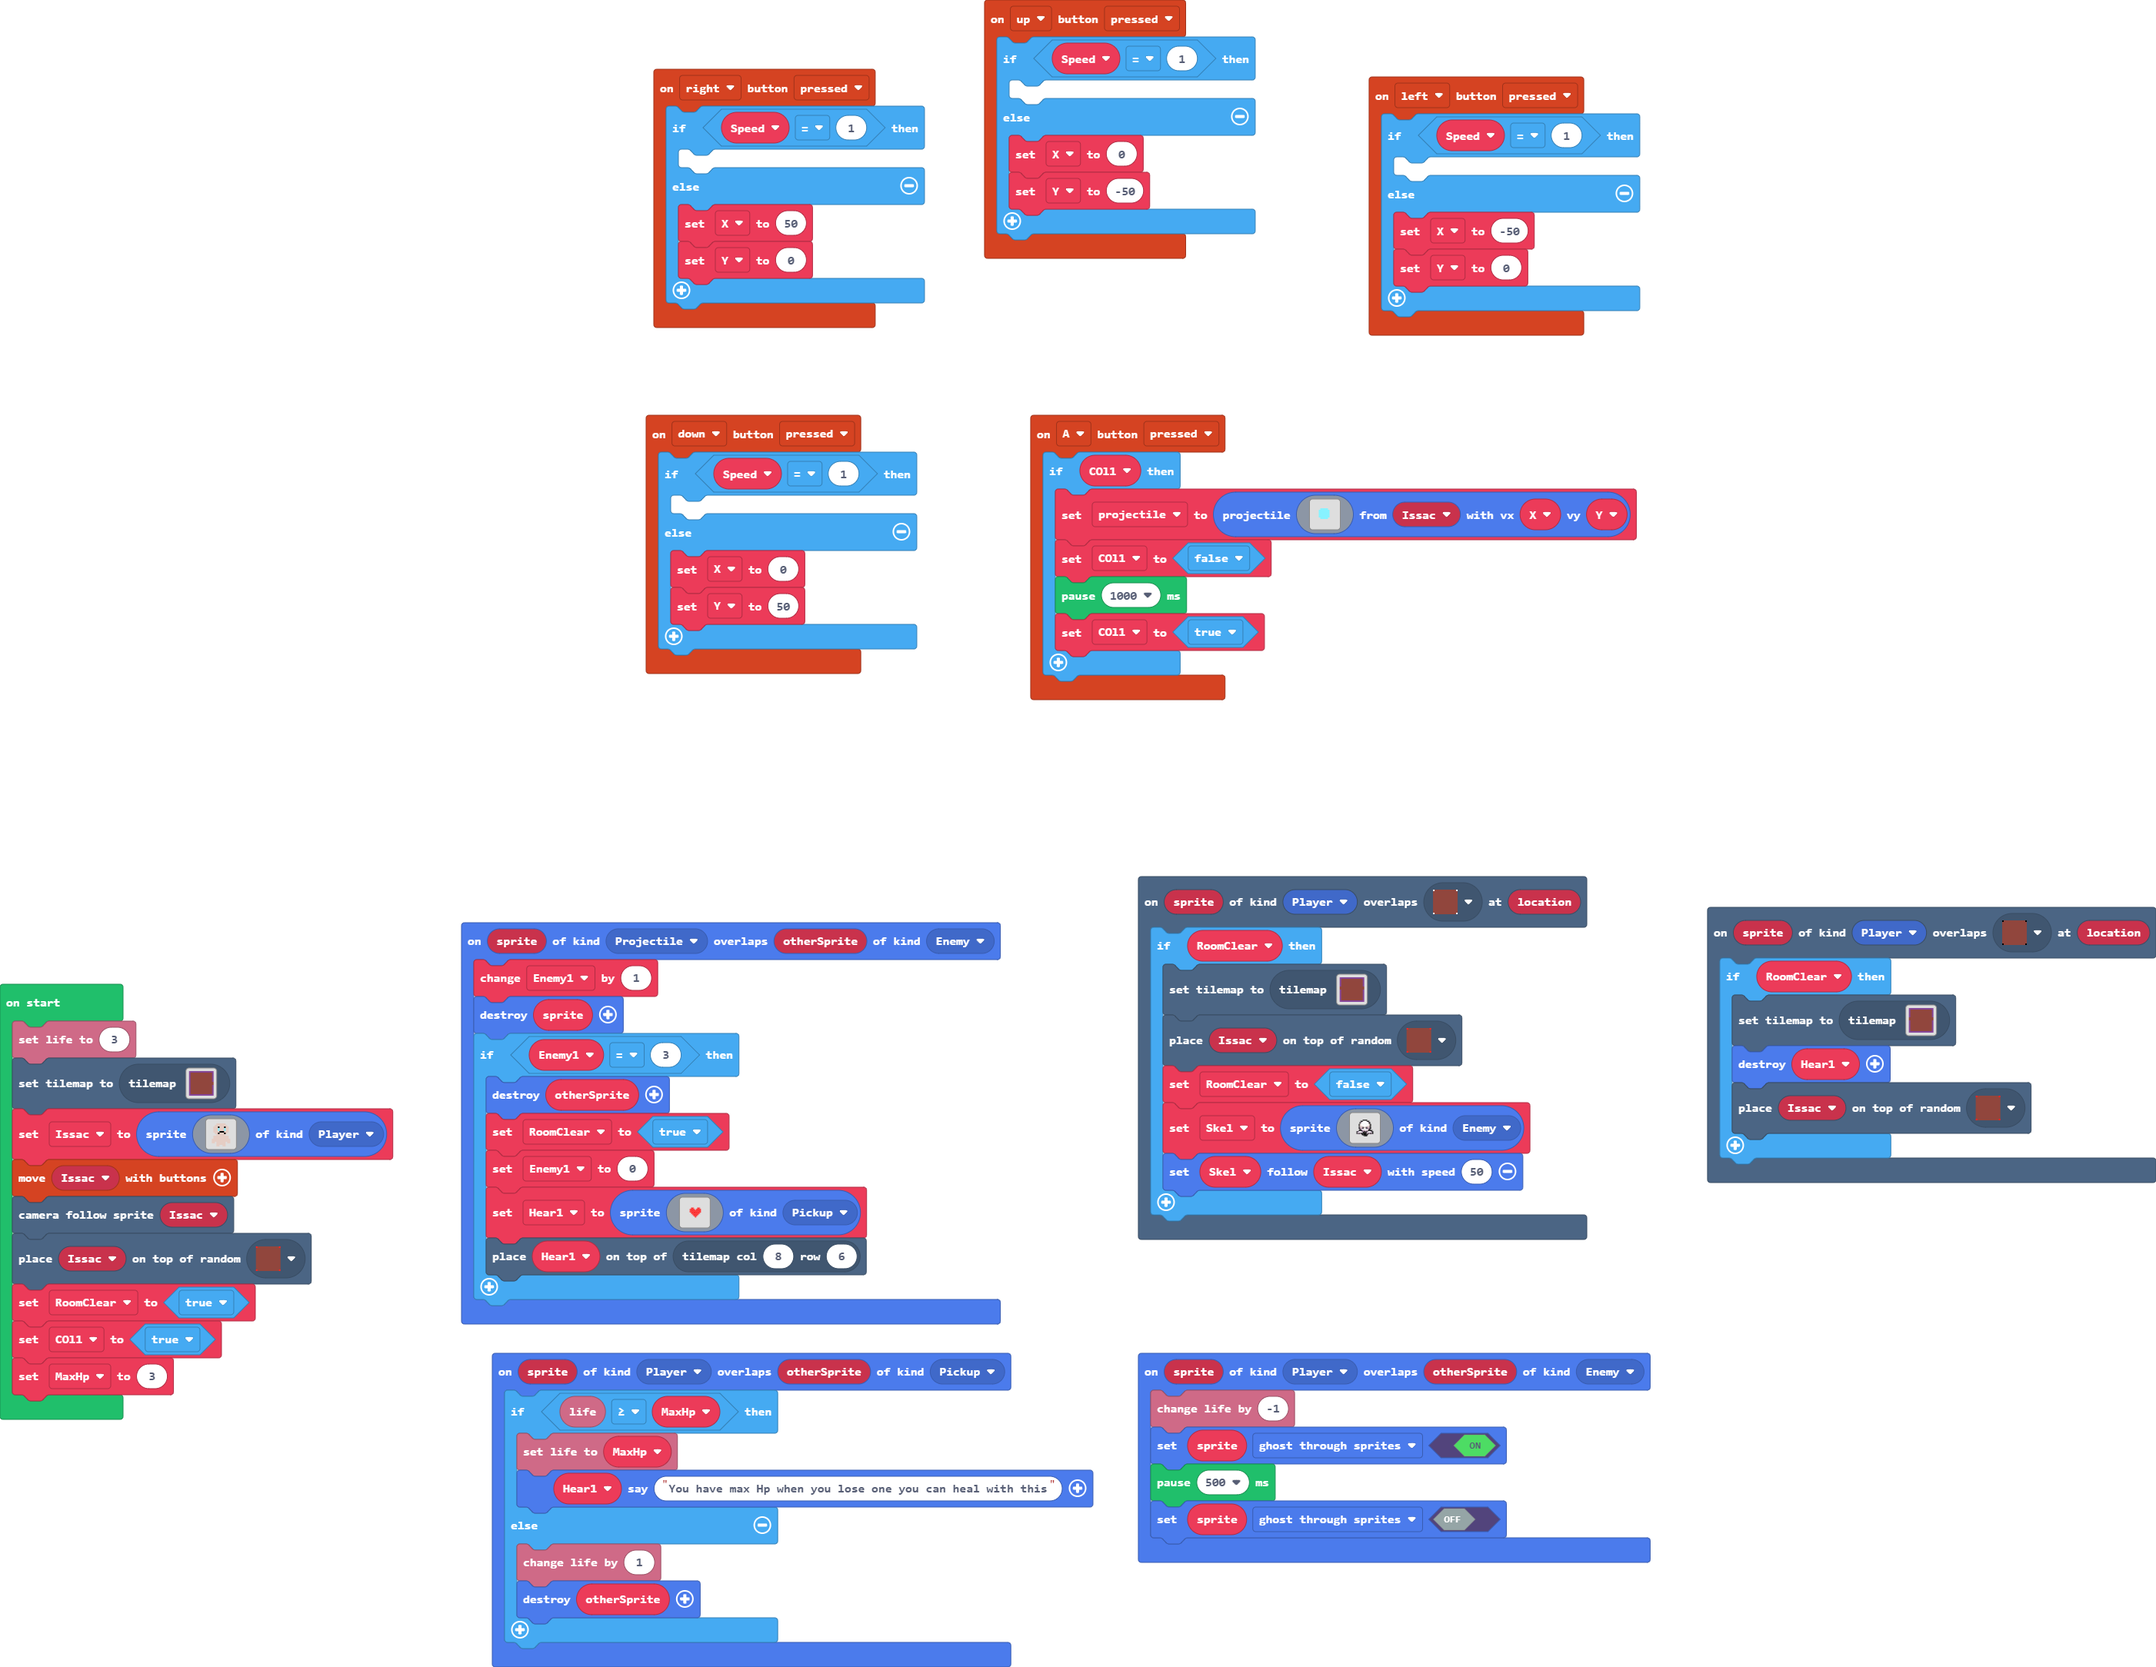
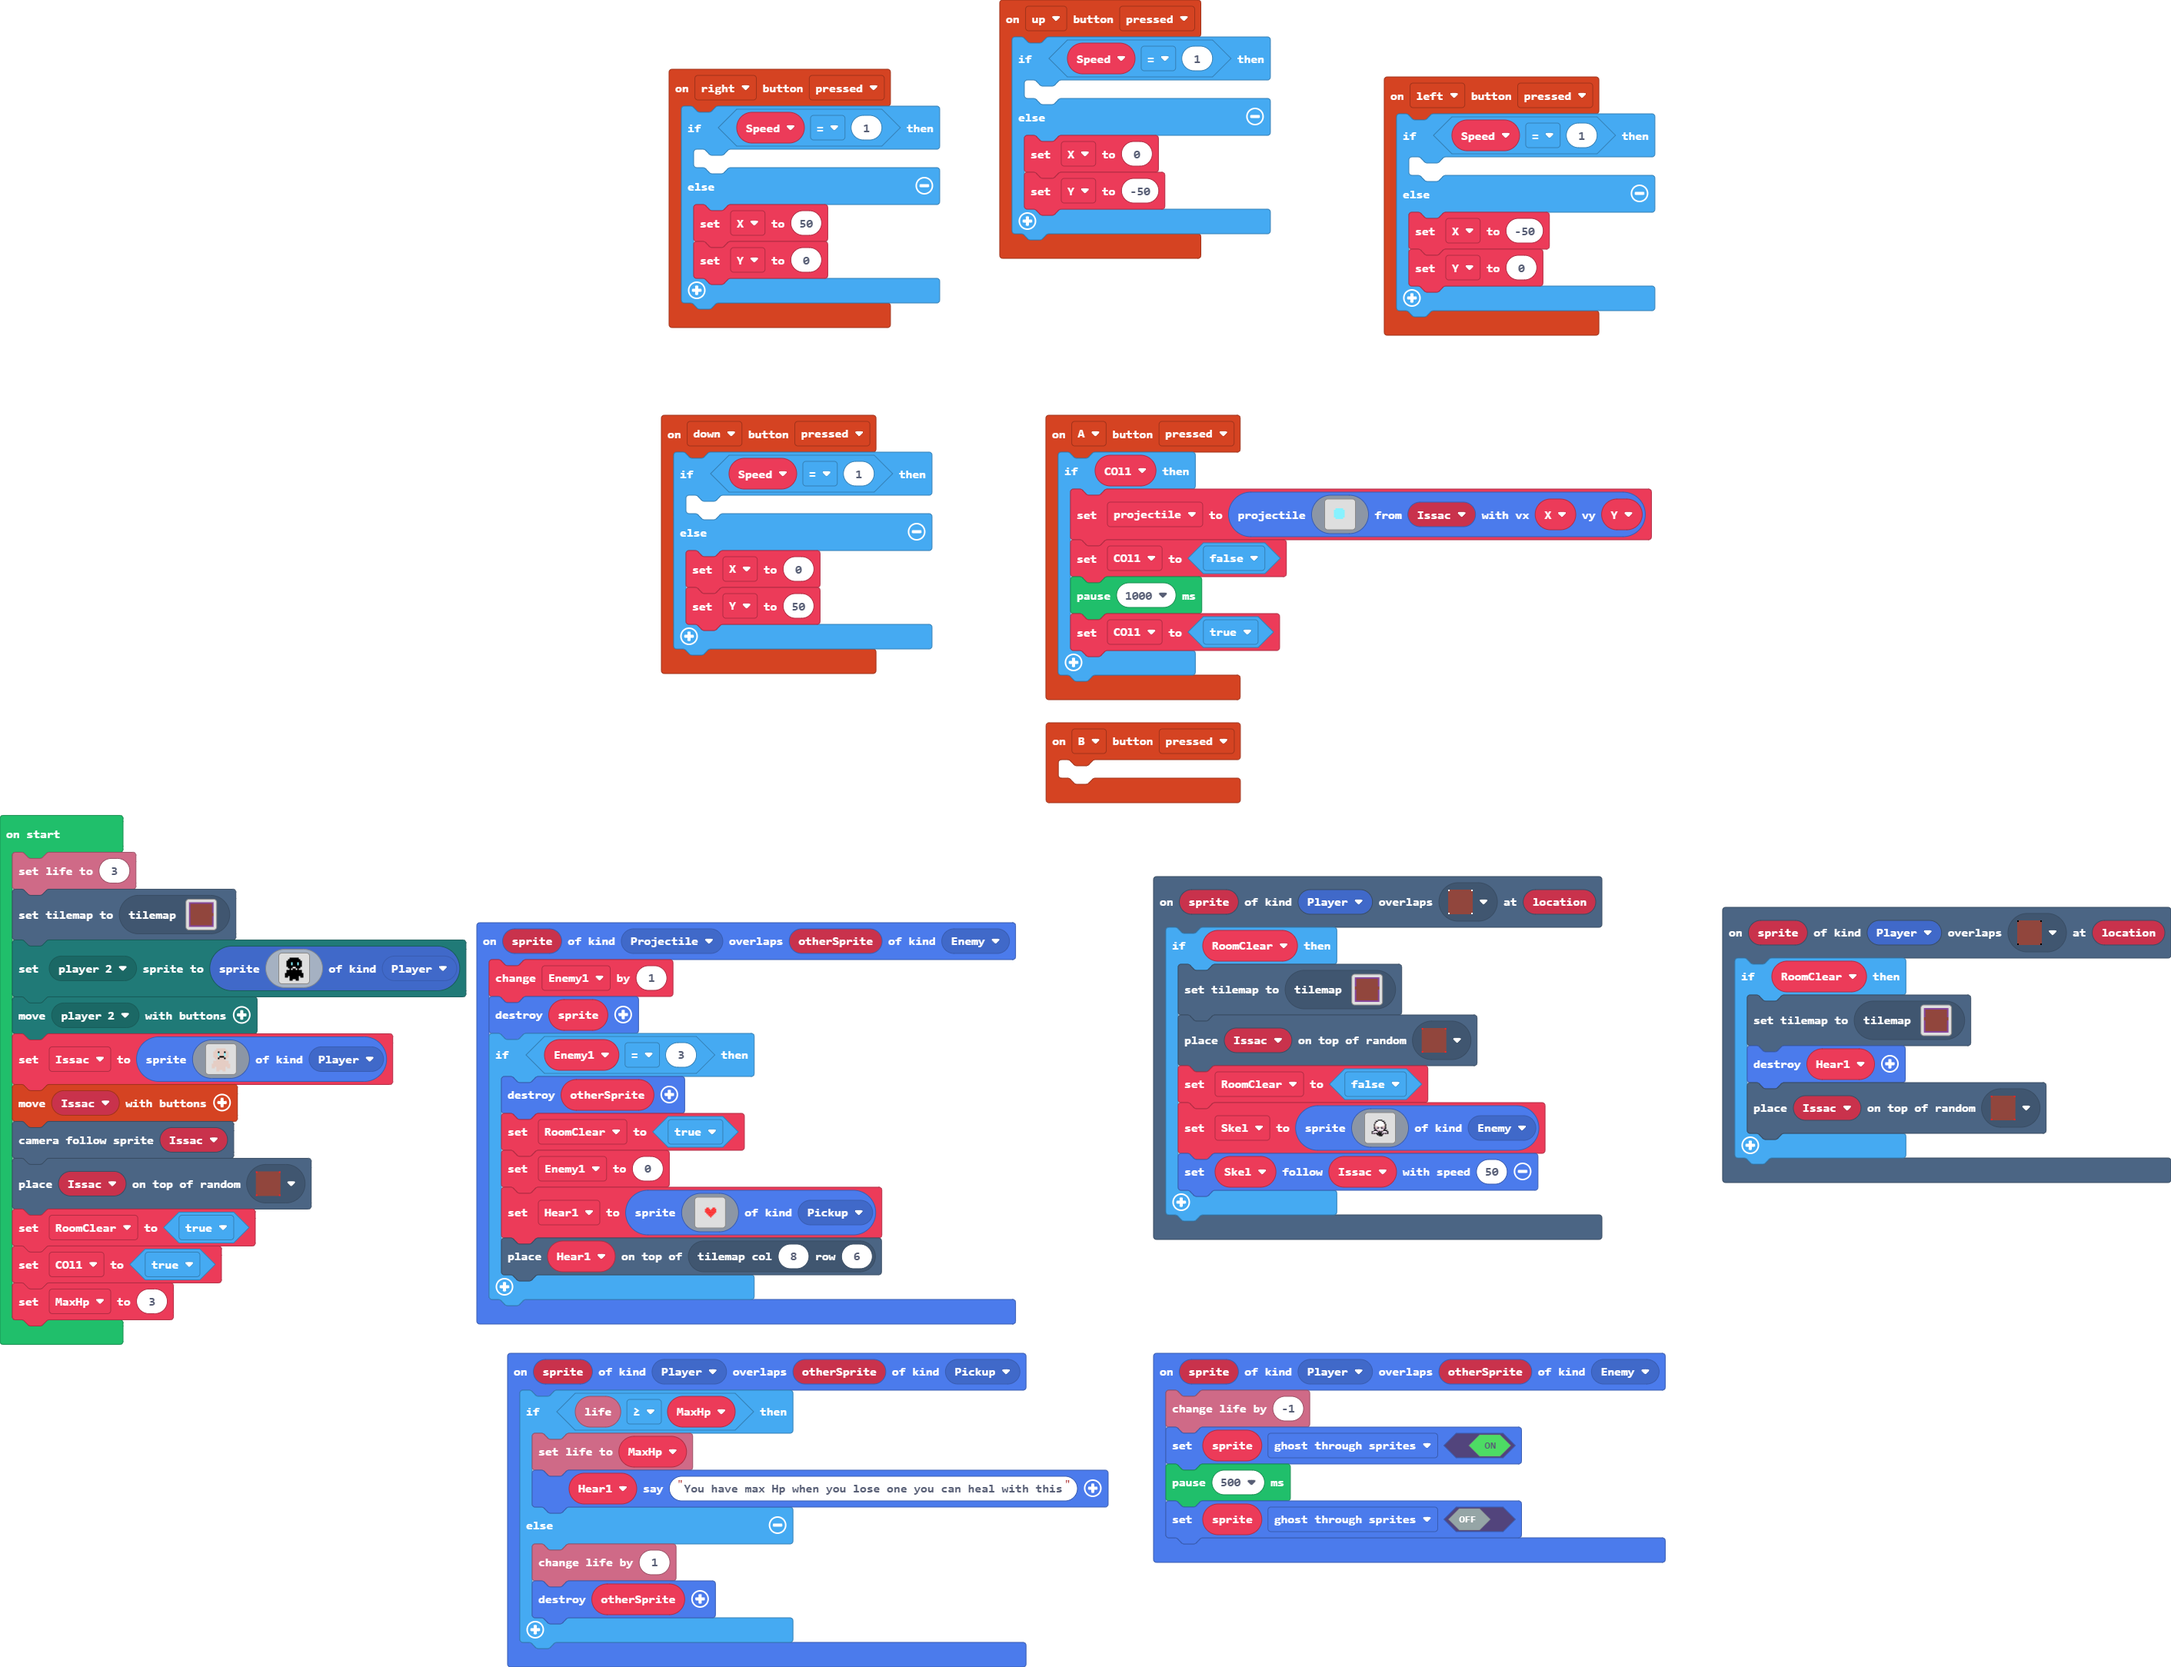
Update pxt.json, main.blocks, main.ts

diff --git a/main.ts b/main.ts
@@ -19,6 +19,9 @@ sprites.onOverlap(SpriteKind.Player, SpriteKind.Pickup, function (sprite, otherS
         sprites.destroy(otherSprite)
     }
 })
+controller.B.onEvent(ControllerButtonEvent.Pressed, function () {
+	
+})
 controller.A.onEvent(ControllerButtonEvent.Pressed, function () {
     if (COl1) {
         projectile = sprites.createProjectileFromSprite(img`
@@ -160,6 +163,25 @@ let RoomClear = false
 let Issac: Sprite = null
 info.setLife(3)
 tiles.setCurrentTilemap(tilemap`StartRoom`)
+mp.setPlayerSprite(mp.playerSelector(mp.PlayerNumber.Two), sprites.create(img`
+    . . . . . . . . . . . . 
+    . . . f f f f f f . . . 
+    . . f f f f f f f f . . 
+    . f f f f f f f f f f . 
+    . f f f 9 f f f 9 f f . 
+    . f f f 9 f f f 9 f f . 
+    . f f f f f f f f f f . 
+    . . f f f 1 1 f f f . . 
+    . . . f 1 f f 1 f . . . 
+    . f f f f f f f f f f . 
+    . f f f f f f f f f f . 
+    f f f f f f f f f f f f 
+    f f f f f f f f f f f f 
+    f f . f f f f f f . f f 
+    . . . f f f f f f . . . 
+    . . . f f . . f f . . . 
+    `, SpriteKind.Player))
+mp.moveWithButtons(mp.playerSelector(mp.PlayerNumber.Two))
 Issac = sprites.create(img`
     . . . . . . . . . . . . 
     . . . d d d d d d . . . 
